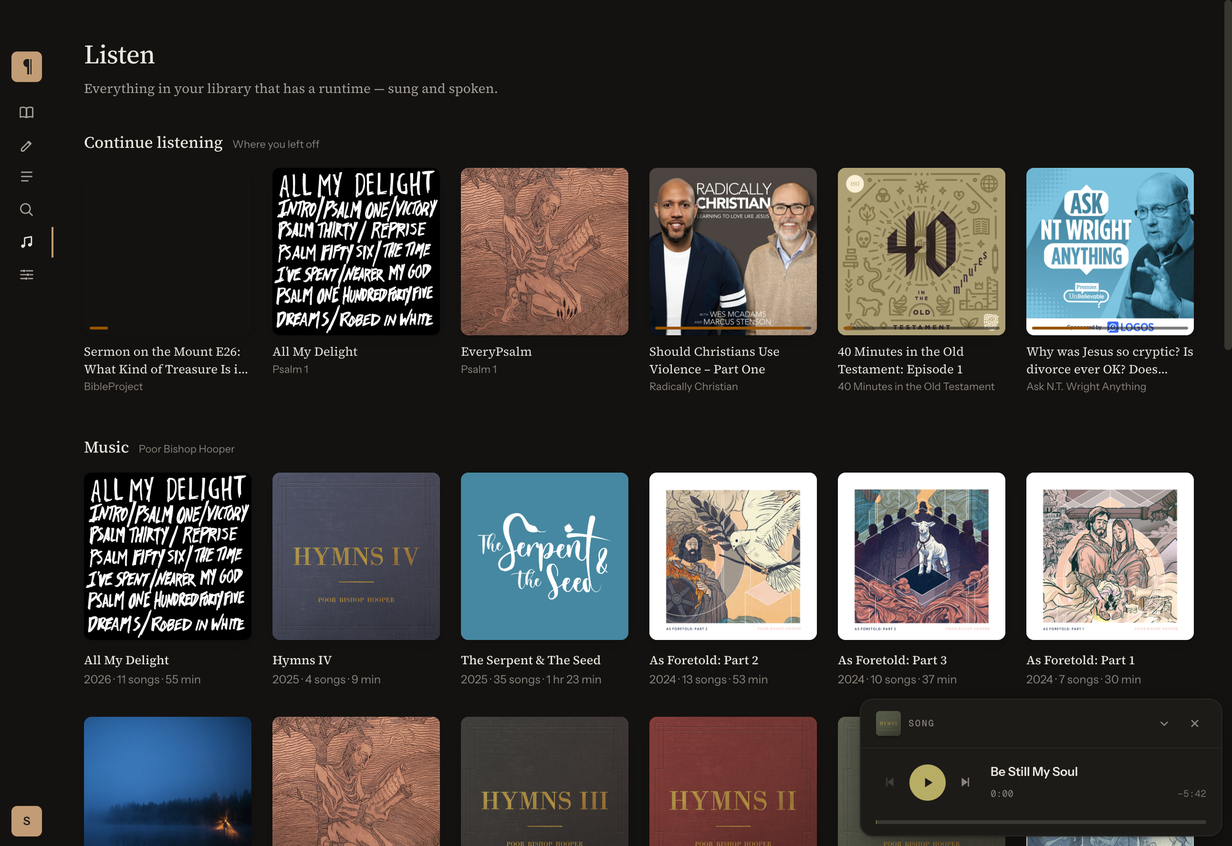
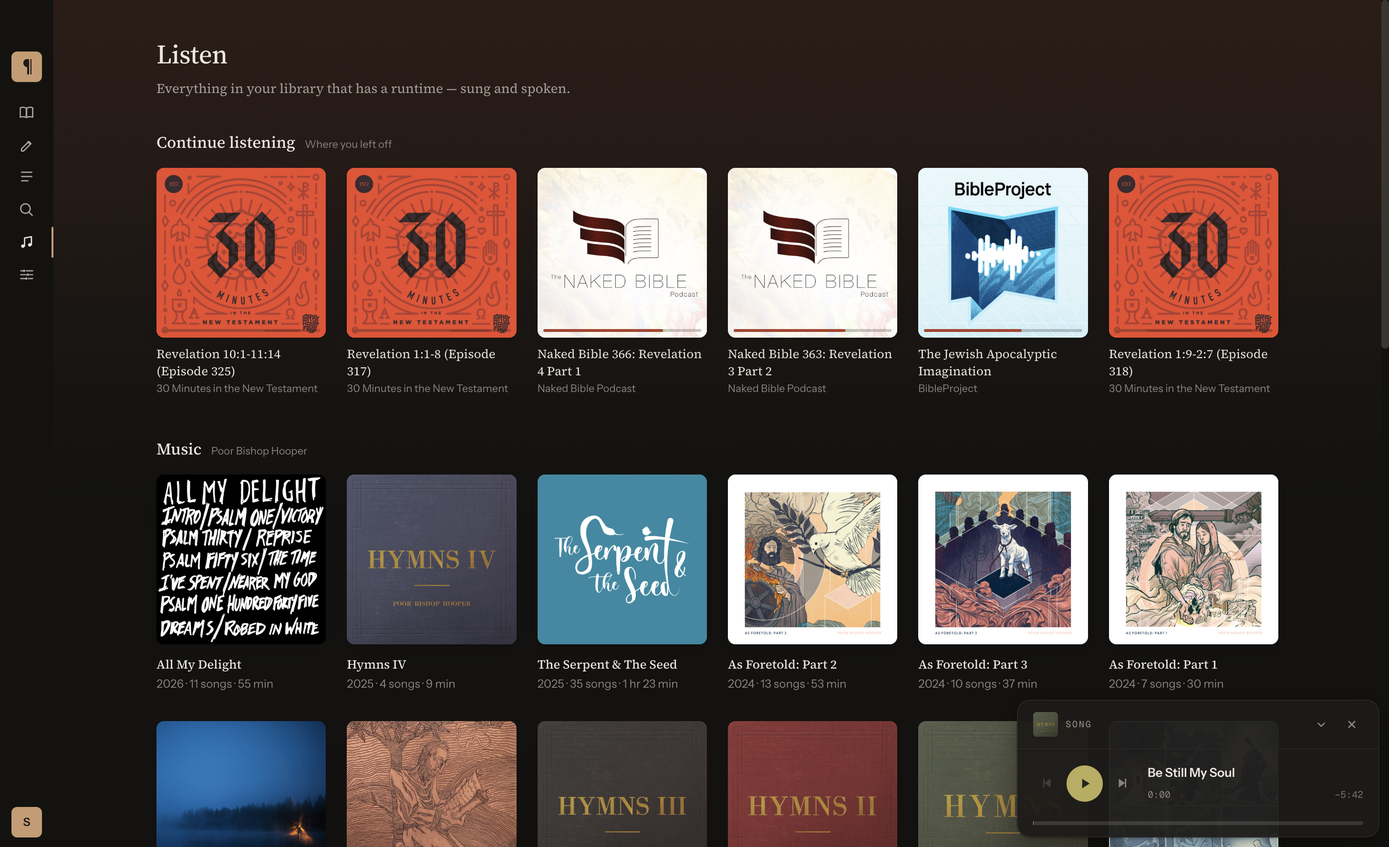
feat: two more publishers may draw their covers here
WIDENED ON THE MAINTAINER'S WORD. BibleProject and Naked Bible reached the Listen
room when their episode catalogues were derived, and arrived wearing branded
plates — a publisher's mark on their own colour — because their CDNs were named
in no allowlist. The plate is a real face and not a placeholder, but it is the
answer for a publisher whose artwork we do not have, and these two have artwork:
3000px and 2000px squares their own feeds point at.

BOTH URLS COME OUT OF THE PUBLISHERS' OWN FEEDS, which is the provenance every
host already on this list has. The `?aid=rss_feed` tracking parameter Simplecast
appends was stripped and the URL re-fetched to prove it still resolves without
it — an attribution query we would be sending on every draw, for nothing.

THE TINTS ARE MEASURED, not chosen. Both went through the same median-cut pass
`compute-cover-tints.py` runs, guarding near-white and near-black buckets, and
came back #0c3c65 and #947774. Neither is achromatic, so neither can reach the
undefined-hue path that turned a card pink once — that failure mode needs a
colourless cover, and it is still checked on the two records that have one.

THE COST IS THE ONE ALREADY WRITTEN AGAINST THIS LIST rather than a new one: a
cover is fetched when the room DRAWS, so these two now learn that a reader opened
Listen. `nakedbiblepodcast.com` is barely a widening at all — it is already in
`media-src`, so it hears the press regardless; what changes is that it also hears
[…]

diff --git a/tests/place-research.test.ts b/tests/place-research.test.ts
@@ -234,15 +234,31 @@ test("place map construction remains pure core TypeScript", () => {
  * chooses, so a publisher's CDN learns that this reader opened Listen. Audio
  * has always cost that too, but only on a press.
  *
- * So the contract becomes an ALLOWLIST rather than a prohibition: the seven
- * hosts these publishers serve covers from, and nothing else. A wildcard, or
- * a host nobody reviewed, fails here — which is the same shape the media-src
- * policy has always had, and the same shape ALLOWED_RESEARCH_LINK_HOSTS has.
+ * So the contract becomes an ALLOWLIST rather than a prohibition: the hosts
+ * these publishers serve covers from, and nothing else. A wildcard, or a host
+ * nobody reviewed, fails here — which is the same shape the media-src policy
+ * has always had, and the same shape ALLOWED_RESEARCH_LINK_HOSTS has.
+ *
+ * TWO MORE · 2026-08-02, and the door was opened by the maintainer again rather
+ * than by a commit. BibleProject and Naked Bible reached the Listen room once
+ * their episode catalogues existed, and until this they wore branded plates
+ * because their CDNs were named nowhere. Both cover URLs come out of the
+ * publishers' own feeds, which is the provenance every host above it has.
+ *
+ * The cost is the one already stated rather than a new one — and
+ * `nakedbiblepodcast.com` is barely a widening at all: it is already in
+ * `media-src`, so it hears the press regardless. What changes is that it now
+ * also hears the draw.
+ *
+ * The point of this is that it is a LIST. Growing it is allowed and routine;
+ * growing it SILENTLY is not, which is why every host is named here rather
+ * than counted.
  */
 test("renderer permits packaged entity media and only reviewed image hosts", () => {
   const reviewed = [
     "cdn.prod.website-files.com", "megaphone.imgix.net", "static.libsyn.com",
     "pbcdn1.podbean.com", "media24.fireside.fm", "*.fireside.fm", "substackcdn.com",
+    "image.simplecastcdn.com", "nakedbiblepodcast.com",
   ];
   for (const relativePath of ["src/renderer/index.html", "scripts/build-renderer.mjs"]) {
     const html = readFileSync(resolve(root, relativePath), "utf8");

diff --git a/tests/listening-memory-contract.test.ts b/tests/listening-memory-contract.test.ts
@@ -247,6 +247,36 @@ test("a playlist fills the queue and is never a machine of its own", () => {
   assert.ok(!/startPodcastQueue\(|playPodcastEpisode\(/.test(store));
 });
 
+test("the plate fallback survives having no live example", () => {
+  /* THE HAZARD THIS EXISTS FOR. The hero draws a publisher's own mark on their
+     own colour when a source carries no cover art, and the room's tour used to
+     prove it against BibleProject — the one show that had none. Then the
+     maintainer widened the image allowlist, BibleProject got its cover, and the
+     fallback stopped being reachable from any page the tour can visit.
+     Unreachable is not the same as unneeded: it is what the NEXT publisher
+     without artwork will wear, and code that nothing exercises is code that
+     quietly rots until somebody deletes it as dead.
+     So the branch is pinned here instead, where it does not depend on a show
+     happening to lack a cover. */
+  const room = code("src/renderer/components/ListenPage.tsx");
+  assert.match(room, /plate\?: string;/, "the hero must still accept a plate");
+  assert.match(room, /listen-card-plate/, "and still draw one when there is no art");
+  /* Passed by the series page, which is the surface that can meet a publisher
+     the packaged art files do not cover. */
+  assert.match(room, /plate=\{openedSeries\.id\}/);
+
+  /* And the tokens it draws with. `.listen-card-plate` was absent from every
+     brand-token selector group until the two onboarded shows exposed it, so the
+     plate resolved `--resource-source` to nothing and painted an empty square on
+     both the shelf and the hero. */
+  const css = read("src/renderer/styles.css");
+  const groups = css.match(/\.listen-card-plate\[data-source="[a-z0-9-]+"\],/g) ?? [];
+  assert.ok(
+    groups.length >= 13,
+    `the plate must be in every publisher's token group — found ${groups.length}`,
+  );
+});
+
 test("one shaper builds episode identities, not two", () => {
   /* A track's id is what every surface matches on. Two shapers drifting by a
      character means a resumed album plays while the room shows nothing

diff --git a/src/renderer/index.html b/src/renderer/index.html
@@ -3,7 +3,7 @@
 <head>
   <meta charset="UTF-8">
   <meta name="viewport" content="width=device-width, initial-scale=1.0">
-  <meta http-equiv="Content-Security-Policy" content="default-src 'self'; script-src 'self'; style-src 'self' 'unsafe-inline'; font-src 'self'; img-src 'self' data: https://cdn.prod.website-files.com https://megaphone.imgix.net https://static.libsyn.com https://pbcdn1.podbean.com https://media24.fireside.fm https://*.fireside.fm https://substackcdn.com; connect-src 'self'; media-src 'self' https://nakedbiblepodcast.com https://afp-597195-injected.calisto.simplecastaudio.com https://traffic.megaphone.fm https://*.megaphone.fm https://dts.podtrac.com https://*.libsyn.com https://adbarker.com https://*.podbean.com https://api.substack.com https://substackcdn.com https://aphid.fireside.fm https://*.fireside.fm https://cdn.prod.website-files.com">
+  <meta http-equiv="Content-Security-Policy" content="default-src 'self'; script-src 'self'; style-src 'self' 'unsafe-inline'; font-src 'self'; img-src 'self' data: https://cdn.prod.website-files.com https://megaphone.imgix.net https://static.libsyn.com https://pbcdn1.podbean.com https://media24.fireside.fm https://*.fireside.fm https://substackcdn.com https://image.simplecastcdn.com https://nakedbiblepodcast.com; connect-src 'self'; media-src 'self' https://nakedbiblepodcast.com https://afp-597195-injected.calisto.simplecastaudio.com https://traffic.megaphone.fm https://*.megaphone.fm https://dts.podtrac.com https://*.libsyn.com https://adbarker.com https://*.podbean.com https://api.substack.com https://substackcdn.com https://aphid.fireside.fm https://*.fireside.fm https://cdn.prod.website-files.com">
   <title>Pericope</title>
 </head>
 <body>

diff --git a/src/electron/main.ts b/src/electron/main.ts
@@ -612,15 +612,27 @@ function normalizeLastRead(value: unknown): AppSettingsSchema["lastRead"] {
 /**
  * The image hosts a stored cover may name.
  *
- * The SAME seven the shipped CSP permits, restated here because these two
+ * The SAME hosts the shipped CSP permits, restated here because these two
  * gates guard different doors: the CSP stops the renderer fetching from
  * anywhere else, and this stops an unreviewed URL ever reaching a settings
  * file that the renderer will later hand to an `<img src>`. A value that has
  * been on disk is not a value this process wrote.
+ *
+ * WIDENED BY TWO · 2026-08-02, on the maintainer's word, for BibleProject and
+ * Naked Bible — two publishers whose catalogues the room could finally list and
+ * who were wearing branded plates because their CDNs were not named anywhere.
+ * Both URLs come from the publishers' own feeds, which is where every other
+ * host in this list came from.
+ *
+ * The cost is the one already written against this list rather than a new one:
+ * a cover is fetched when the room DRAWS, so these two now learn that a reader
+ * opened Listen. `nakedbiblepodcast.com` is not even a widening in practice —
+ * it is already in `media-src`, so it hears the audio press regardless.
  */
 const HEARD_ART_HOSTS = new Set([
   "cdn.prod.website-files.com", "megaphone.imgix.net", "static.libsyn.com",
   "pbcdn1.podbean.com", "media24.fireside.fm", "substackcdn.com",
+  "image.simplecastcdn.com", "nakedbiblepodcast.com",
 ]);
 
 function reviewedArt(value: unknown): string | null {
